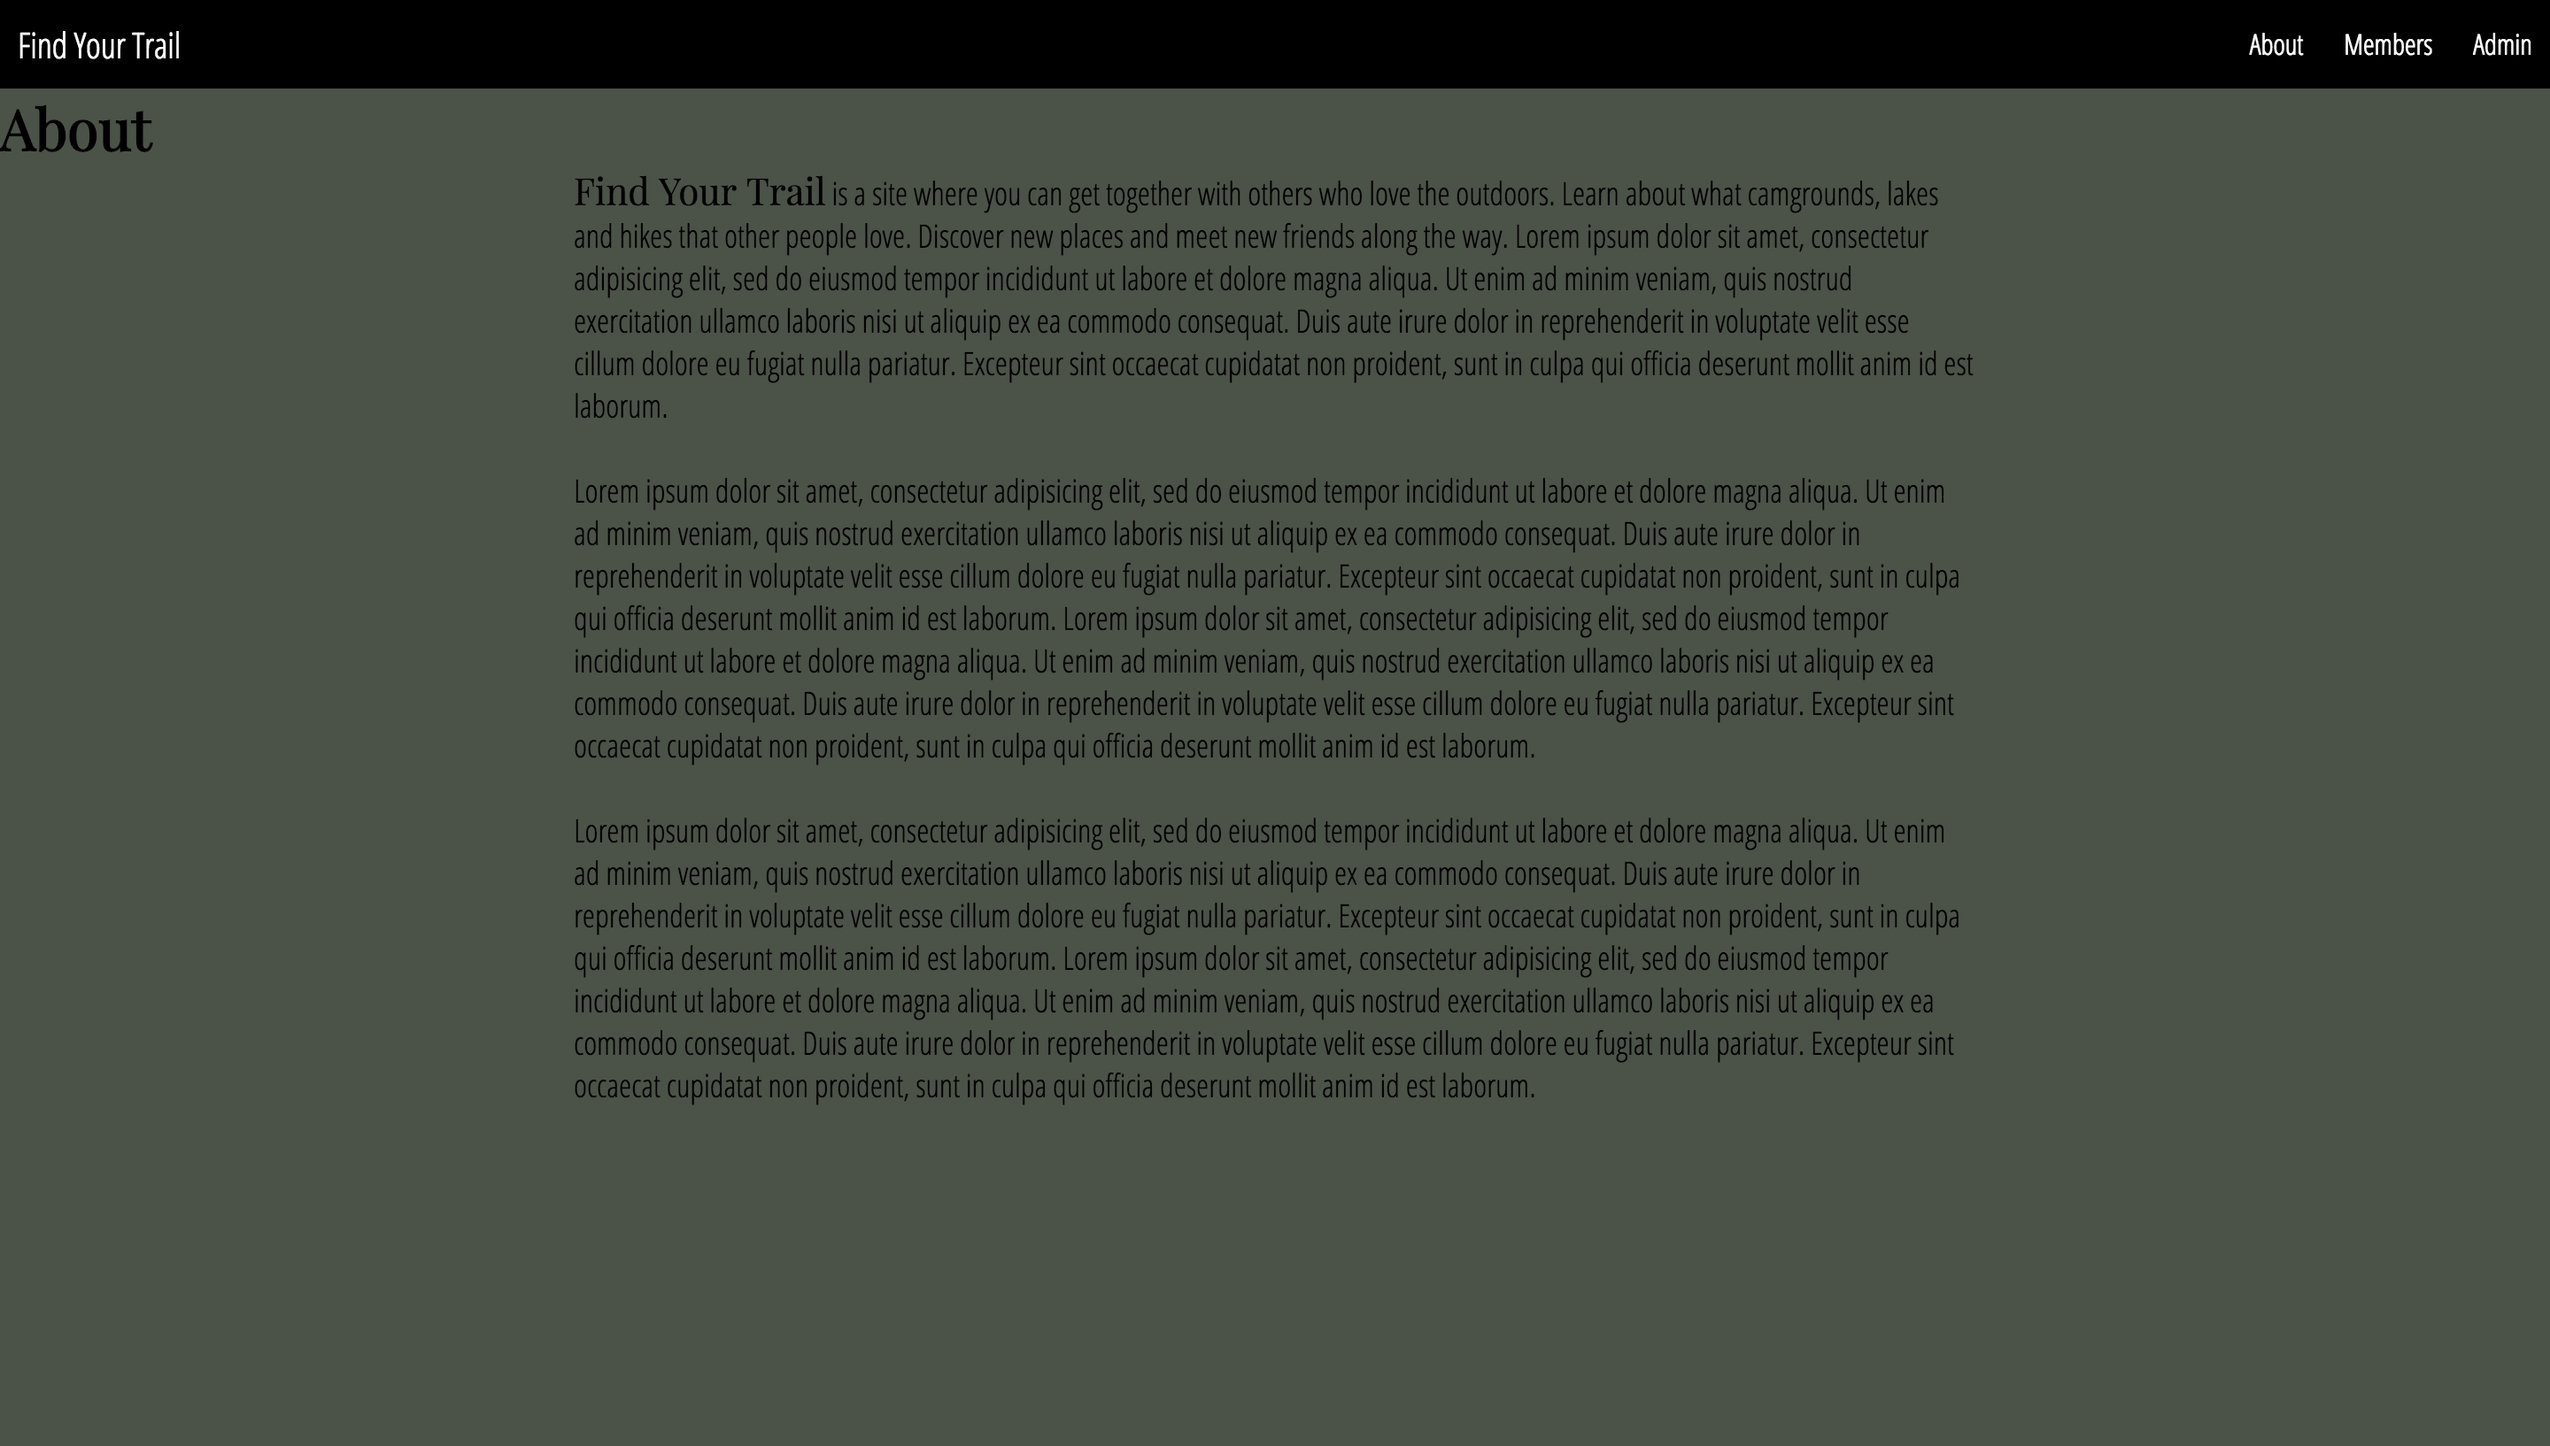
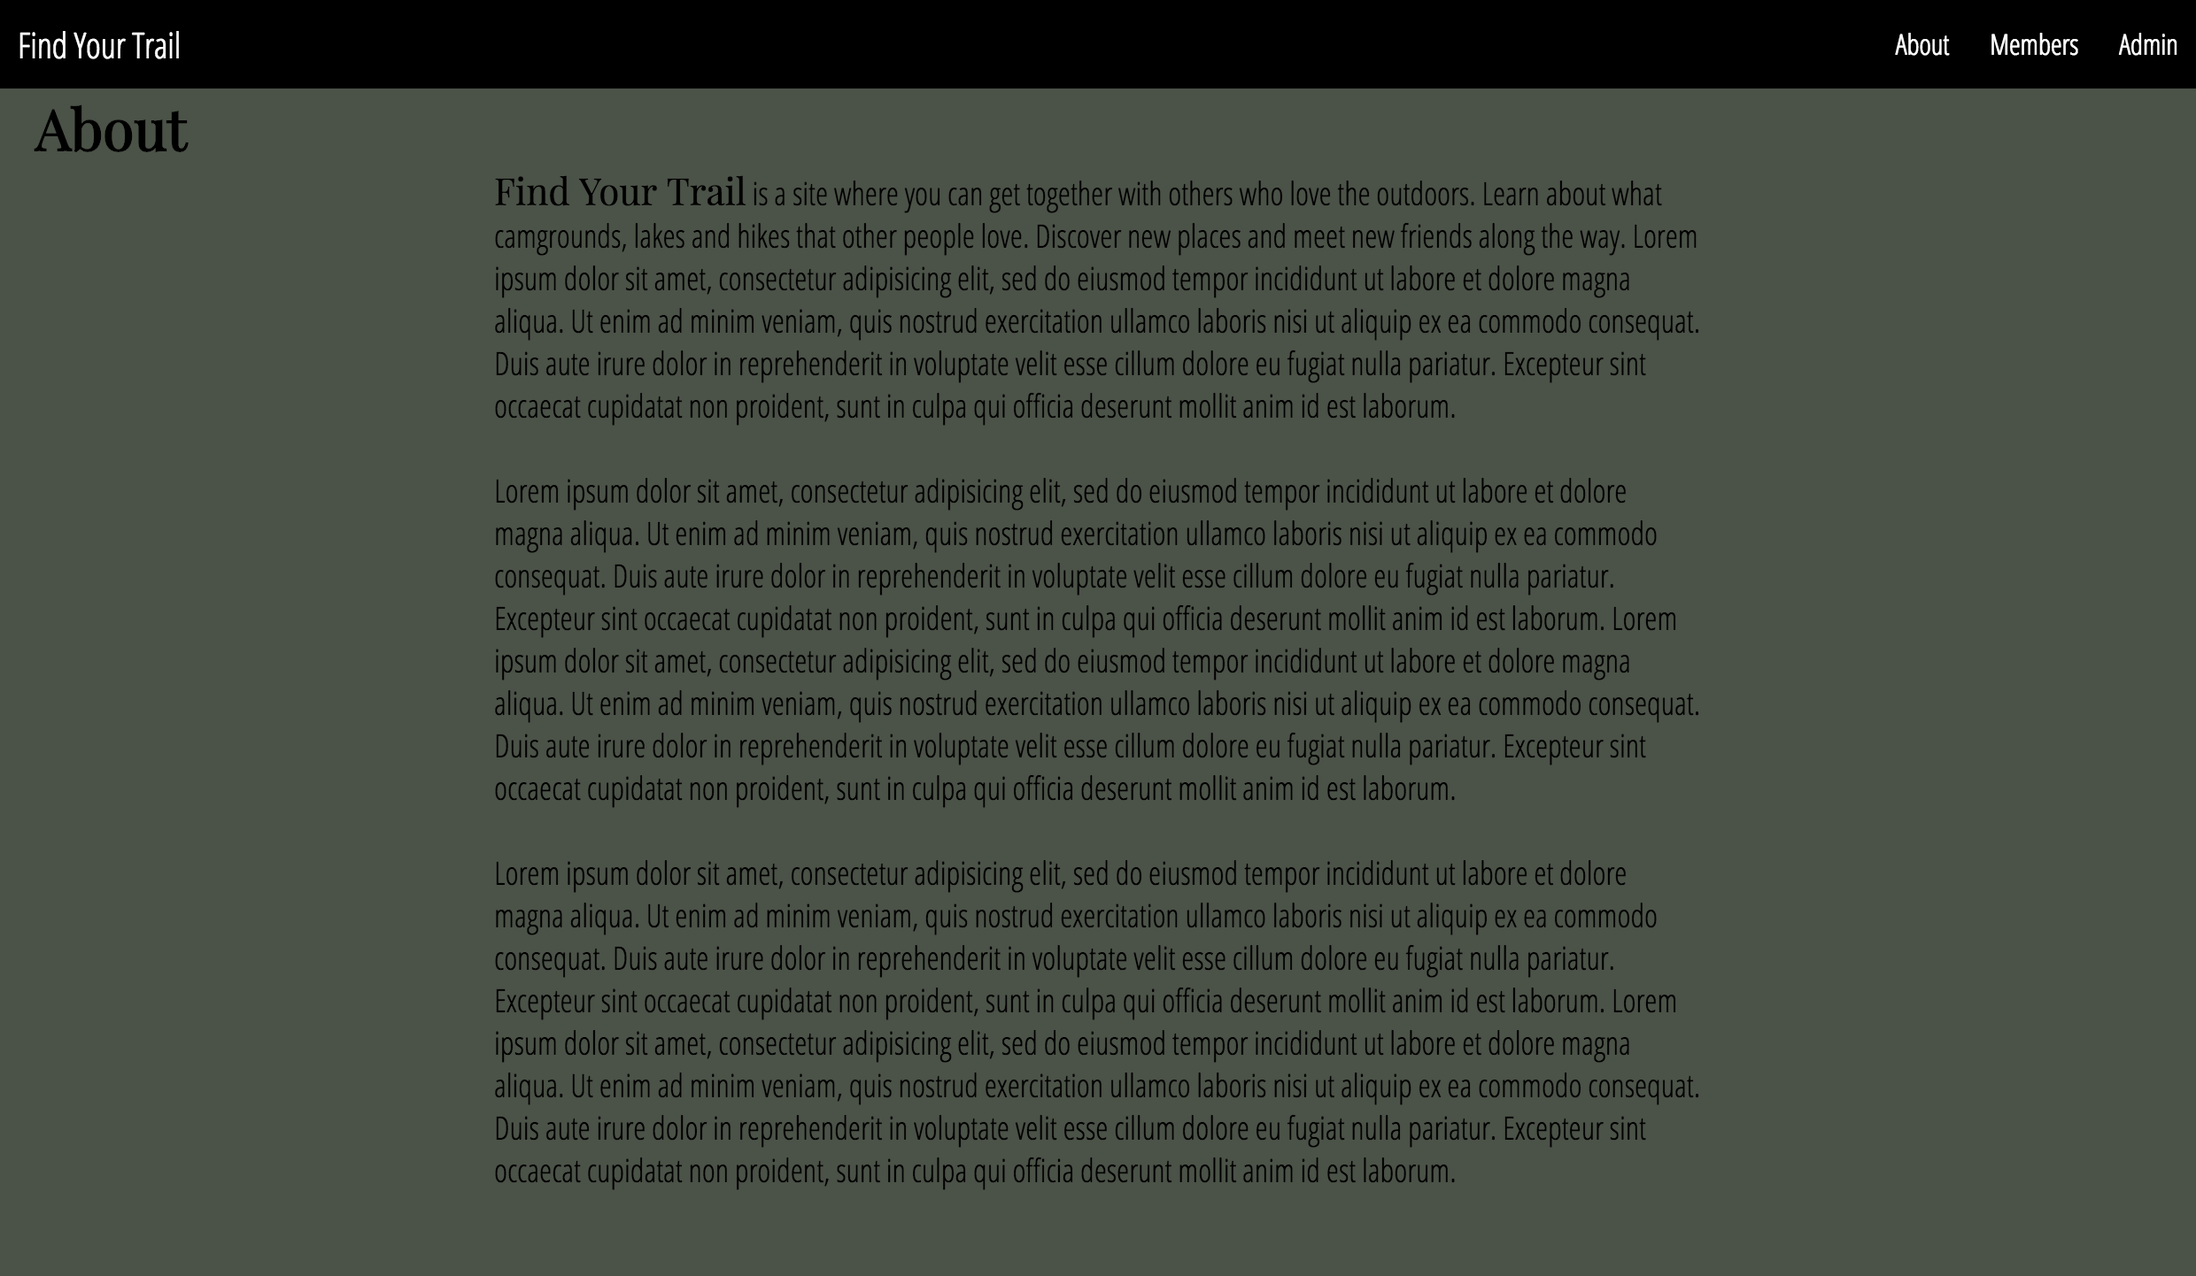
Finish README, replace screenshots, finish styling for details of members

Changed region(s): [[0.2173, 0.1248, 0.7762, 0.9362], [0.0, 0.0, 1.0, 0.1248]]

diff --git a/src/app/member-detail/member-detail.component.ts b/src/app/member-detail/member-detail.component.ts
@@ -7,8 +7,31 @@ import { MemberService } from '../member.service';
 @Component({
   selector: 'app-member-detail',
   templateUrl: './member-detail.component.html',
-  styleUrls: ['./member-detail.component.scss'],
-  providers: [MemberService]
+  // styleUrls: ['./member-detail.component.scss'],
+  providers: [MemberService],
+  styles: [`
+    h1 {
+      margin-left: 20px;
+    }
+    body {
+      height: 100vh;
+      background-color: #4b5247;
+      display: flex;
+      justify-content: center;
+      align-items: center;
+    }
+    #detail {
+      background-color: #6e9159;
+      border-radius: 5px;
+      box-shadow: 2px 2px 2px black;
+      height: 200px;
+      width: 200px;
+      display: flex;
+      justify-content: space-around;
+      align-items: center;
+      flex-direction: column;
+    }
+  `],
 })
 export class MemberDetailComponent implements OnInit {
   memberId: string;

diff --git a/src/app/member-detail/member-detail.component.html b/src/app/member-detail/member-detail.component.html
@@ -1,5 +1,10 @@
-<div>
-  <h3>{{(memberToDisplay | async)?.name}}</h3>
-  <h4>{{(memberToDisplay | async)?.age}}</h4>
-  <h4>{{(memberToDisplay | async)?.faveLocation}}</h4>
-</div>
+<!DOCTYPE html>
+<html>
+  <body>
+    <div id="detail">
+      <h2>{{(memberToDisplay | async)?.name}}</h2>
+      <h4>Age: {{(memberToDisplay | async)?.age}}</h4>
+      <h4>Favorite Location: {{(memberToDisplay | async)?.faveLocation}}</h4>
+    </div>
+  </body>
+</html>

diff --git a/src/app/members/members.component.ts b/src/app/members/members.component.ts
@@ -10,6 +10,10 @@ import { FirebaseListObservable } from 'angularfire2/database';
   // styleUrls: ['./members.component.scss'],
   providers: [MemberService],
   styles: [`
+    h1 {
+      margin-left: 20px;
+    }
+    
     body {
       height: 100vh;
       background-color: #4b5247;

diff --git a/src/app/about/about.component.ts b/src/app/about/about.component.ts
@@ -7,6 +7,10 @@ import { Component, OnInit } from '@angular/core';
   styles: [`
     @import url('https://fonts.googleapis.com/css?family=Open+Sans+Condensed:300');
 
+    h1 {
+      margin-left: 20px;
+    }
+
     body {
       height: 100vh;
       background-color: #4b5247;

diff --git a/README.md b/README.md
@@ -34,7 +34,6 @@ This web app was made primarily with Angular 4 and the Angular CLI, Typescript, 
   * Contact page
   * About page
   * List members page.
-  * Dynamic members pages.
   * Admin page with CRUD functionality for members
 
 ### 4. UX/UI
@@ -58,8 +57,8 @@ You will need the following things properly installed on your computer.
 As of writing this README, these instructions work on MacOS.
 
 * Run `$ git clone <this-repository-url>`
-* Then `$ cd club-tracker`
-* Once in the club-tracker folder, run `$ npm install`, `$bower init`(just press enter through the prompts), `$ bower install bootstrap --save`, and `$ bower install`
+* Then `$ cd week3`
+* Once in the week3 folder, run `$ npm install`
 * You will need to remake the api-keys.ts file. Login to firebase and create your own project here https://firebase.google.com/
   * Once logged in, click on 'Go To Console'.
   * Then click 'Add project', give it a name, and select your region.
